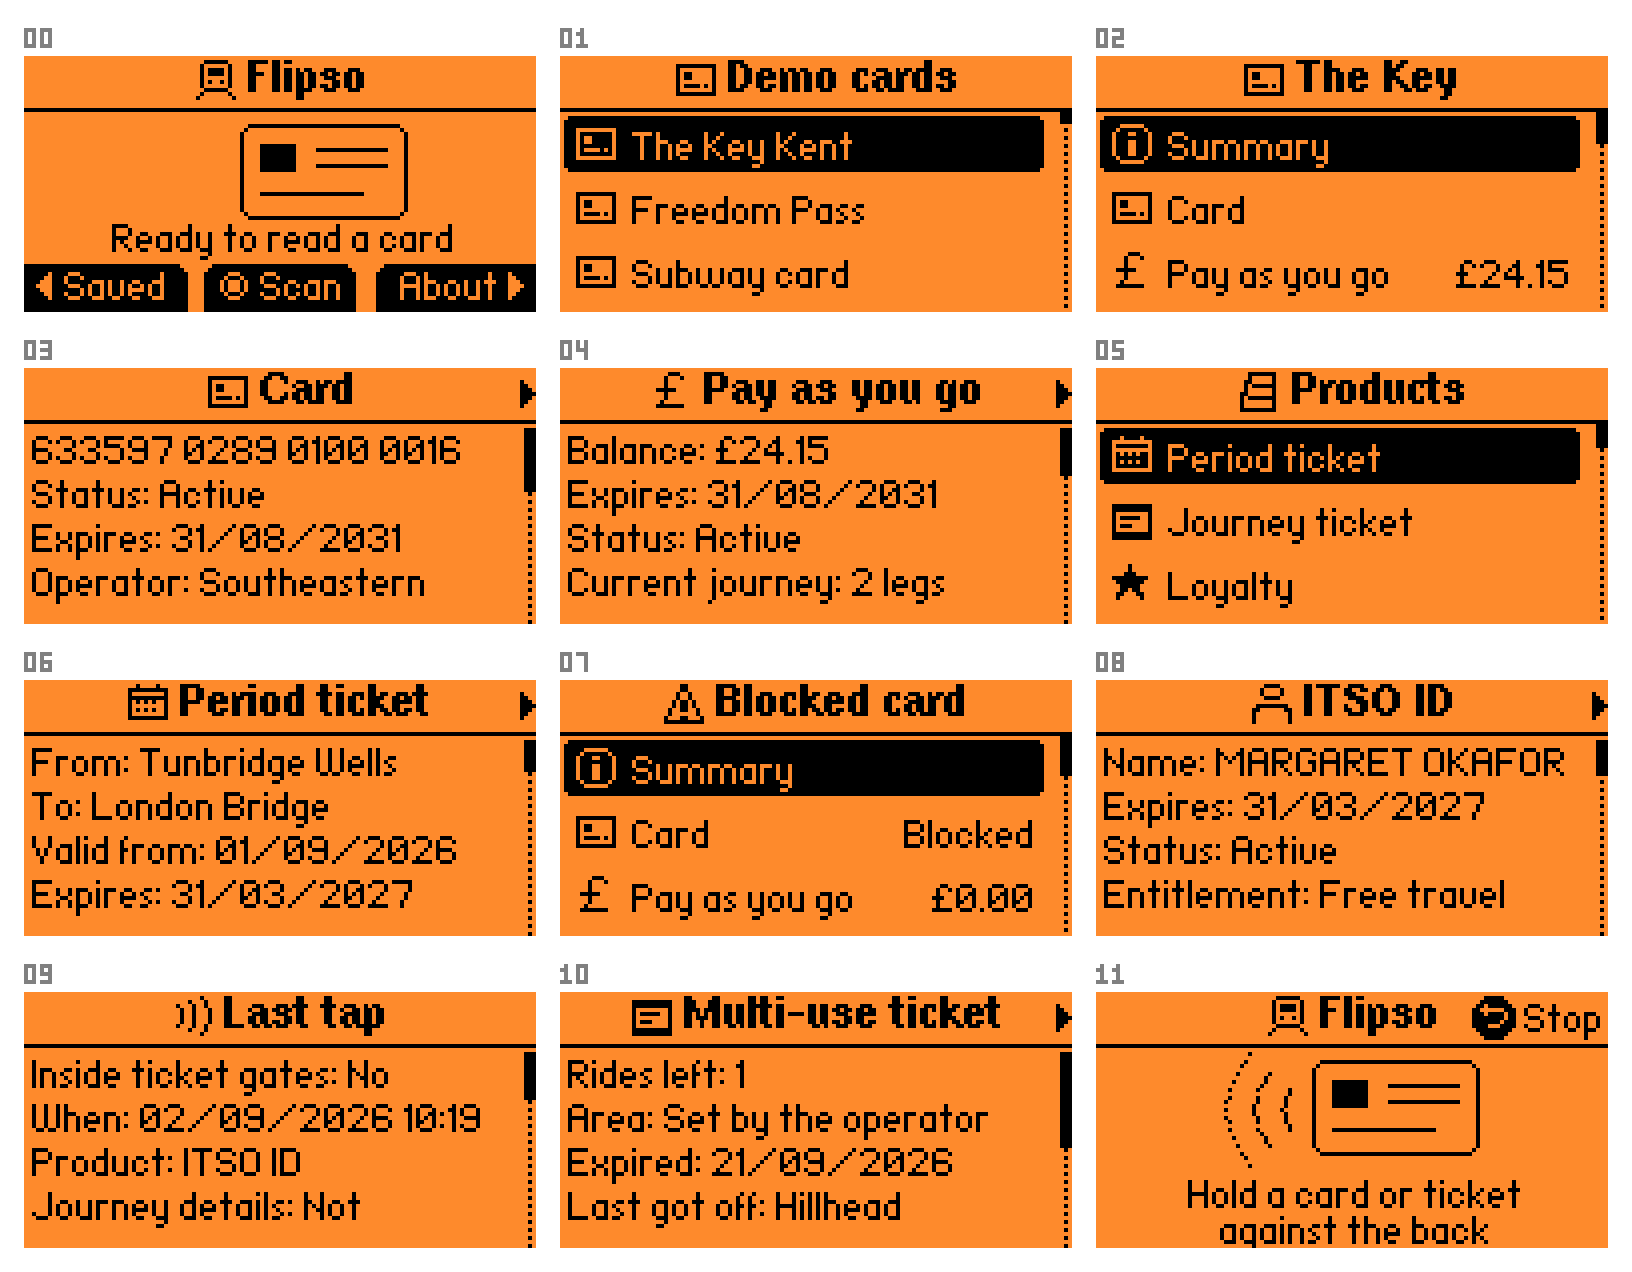
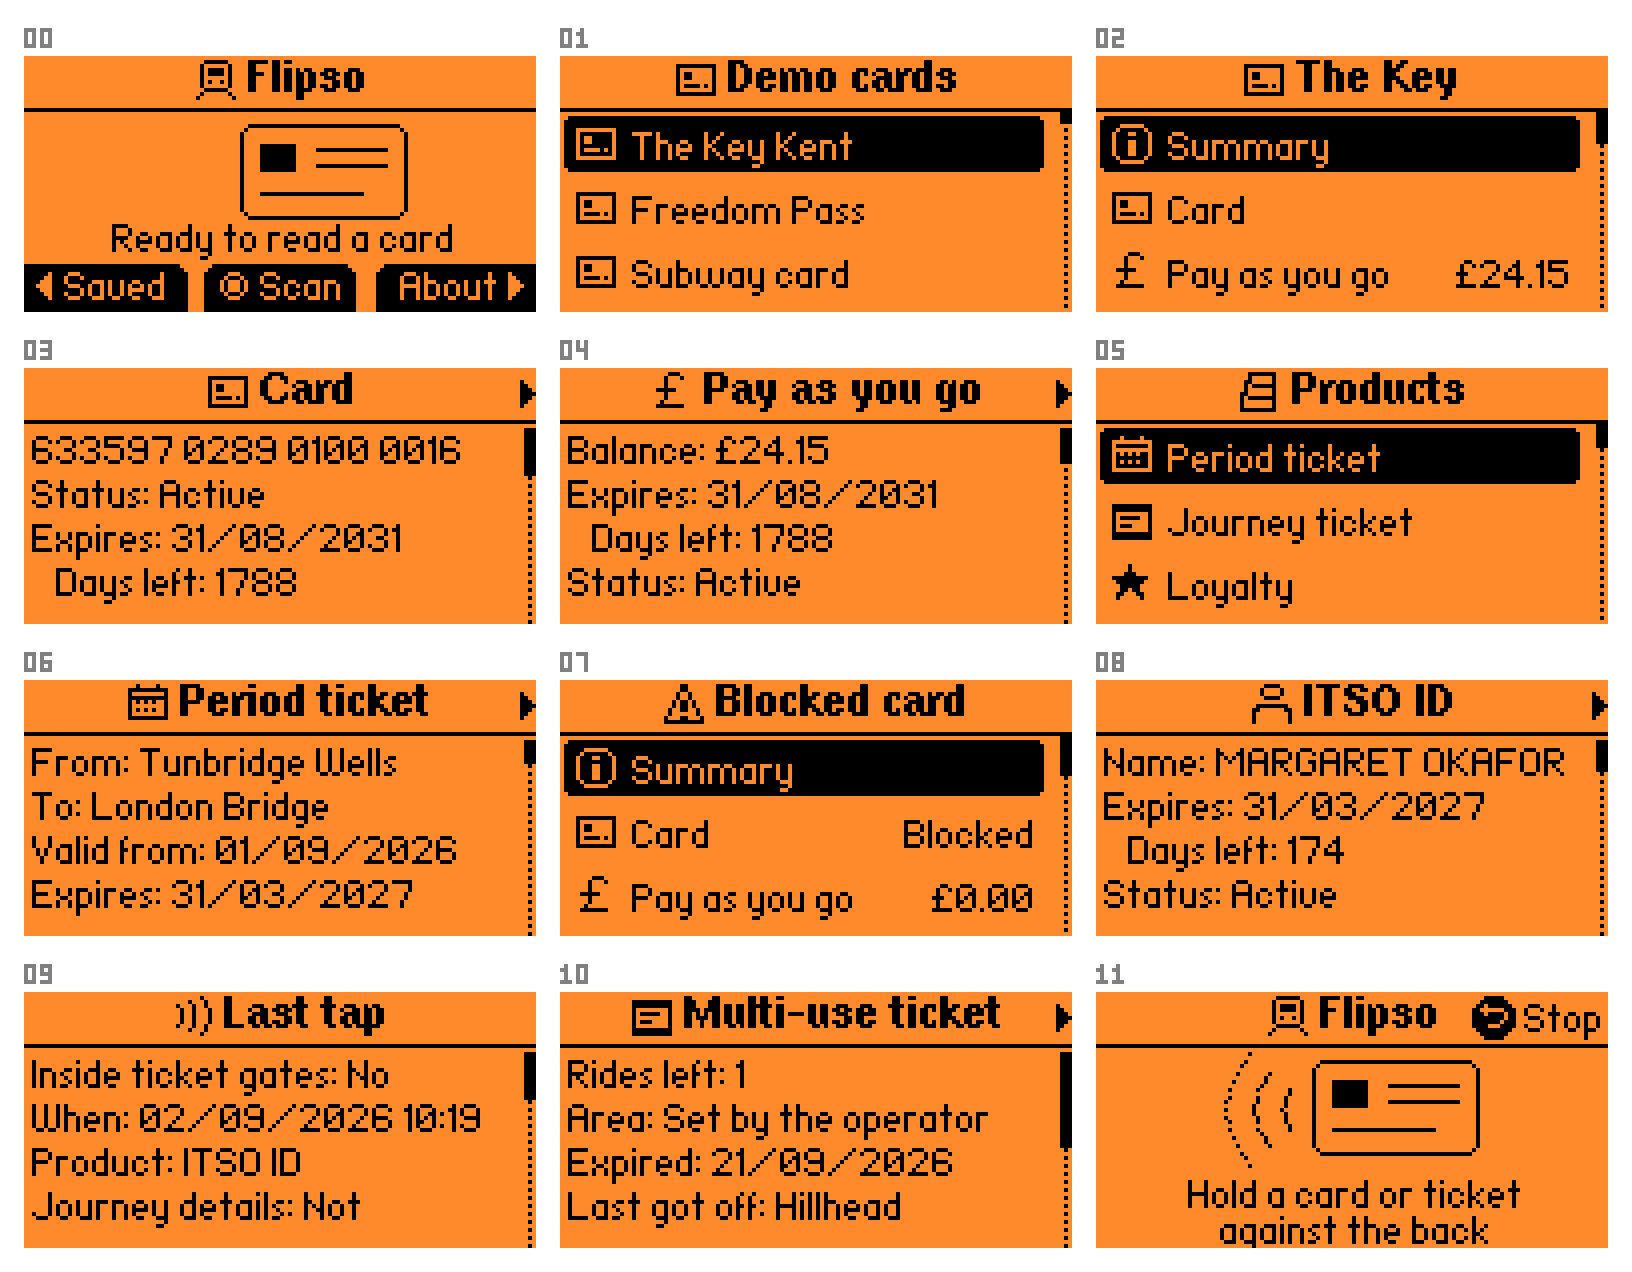
Show days left under expiries, and a period ticket's current pass on the Summary
A product's expiry, a period ticket's current pass and the card's own expiry
now carry an indented "Days left: N" ("Today" on the last day, nothing once
expired or for no expiry), counted in whole calendar days by
itso_date_days_left(). The Summary sums up a period ticket by the pass in
use, falling back to the product's expiry once that pass has ended.

screens.py judged "today" from the real instant of local midnight, which in
summer is the day before on the device's wall-clock timestamps; it now uses
the wall-clock midnight the Flipper would. README screenshots retaken.

diff --git a/tools/test/screen_text/test_days_left.c b/tools/test/screen_text/test_days_left.c
@@ -1,0 +1,172 @@
+/**
+ * @file test_days_left.c
+ * @brief How long is left on an expiry, and the date a period ticket's Summary goes by.
+ */
+#include "test_format.h"
+
+#include <time.h>
+
+/** "Label: dd/mm/yyyy\n" for @p date, as the screens write it. */
+static const char* dated(const char* label, ItsoDate date) {
+    static char line[64];
+    const time_t when = (time_t)itso_date_to_unix(date);
+    struct tm tm;
+    gmtime_r(&when, &tm);
+    snprintf(
+        line,
+        sizeof(line),
+        "%s: %02d/%02d/%04d\n",
+        label,
+        tm.tm_mday,
+        tm.tm_mon + 1,
+        tm.tm_year + 1900);
+    return line;
+}
+
+/** True when the screen has @p first with @p second on the line straight after it. */
+static bool followed_by(const FuriString* text, const char* first, const char* second) {
+    char want[128];
+    snprintf(want, sizeof(want), "%s%s", first, second);
+    return shows(text, want);
+}
+
+void days_left_screens(const FlipsoFormat* f, const ItsoCard* card, FuriString* text) {
+    const ItsoProduct* period = NULL;
+    for(uint8_t i = 0; i < card->product_count && !period; i++) {
+        if(card->products[i].typ == ItsoTypPeriodTicket) period = &card->products[i];
+    }
+    check("the synthetic card has a period ticket", period != NULL);
+    if(!period) return;
+
+    /* The day f->now falls on, whatever its hour. */
+    const ItsoDate today = (ItsoDate)((f->now - (itso_date_to_unix(1) - 86400)) / 86400);
+
+    check("days left counts to the day", itso_date_days_left(today + 185, f->now) == 185);
+    check("the last day has none left after it", itso_date_days_left(today, f->now) == 0);
+    check("yesterday is behind us", itso_date_days_left(today - 1, f->now) == -1);
+    /* Calendar days, not 24-hour spans: a minute before midnight, tomorrow is
+     * still one day away, and so it is a minute after. */
+    check(
+        "late in the day, tomorrow is a day away",
+        itso_date_days_left(today + 1, f->now + 86340) == 1);
+    check(
+        "and just past midnight, today is today",
+        itso_date_days_left(today + 1, f->now + 86460) == 0);
+    for(int32_t d = -2; d <= 2; d++) {
+        const ItsoDate date = (ItsoDate)(today + d);
+        check(
+            "it is below zero exactly when the date has expired",
+            (itso_date_days_left(date, f->now) < 0) == itso_date_expired(date, f->now));
+    }
+
+    ItsoProduct ticket = *period;
+    ticket.status = ItsoProductStatusActive;
+    ticket.count_kind = ItsoCountPasses;
+    ticket.count = 5;
+    ticket.expiry = today + 185;
+    ticket.terms.ticket.has_current_expiry = true;
+    ticket.terms.ticket.current_expiry = today + 12;
+    ticket.terms.ticket.has_stored_expiry = true;
+    ticket.terms.ticket.stored_expiry = today + 120;
+
+    furi_string_reset(text);
+    flipso_format_product(text, f, card, &ticket);
+    printf("\n%s\n", furi_string_get_cstr(text));
+    check(
+        "the expiry says how long is left",
+        followed_by(text, dated("Expires", ticket.expiry), "  Days left: 185\n"));
+    check(
+        "and so does the pass in use",
+        followed_by(
+            text,
+            dated("Current pass until", ticket.terms.ticket.current_expiry),
+            "  Days left: 12\n"));
+    check(
+        "but not the unused passes",
+        !followed_by(
+            text, dated("Unused passes until", ticket.terms.ticket.stored_expiry), "  Days"));
+
+    ticket.terms.ticket.current_expiry = today + 1;
+    ticket.expiry = today;
+    furi_string_reset(text);
+    flipso_format_product(text, f, card, &ticket);
+    check(
+        "a date tomorrow is a day away",
+        followed_by(
+            text,
+            dated("Current pass until", ticket.terms.ticket.current_expiry),
+            "  Days left: 1\n"));
+    check(
+        "and the last day says so",
+        followed_by(text, dated("Expires", ticket.expiry), "  Days left: Today\n"));
+
+    ticket.expiry = today - 1;
+    ticket.terms.ticket.current_expiry = today - 3;
+    furi_string_reset(text);
+    flipso_format_product(text, f, card, &ticket);
+    check("an expired date has its label", shows(text, dated("Expired", ticket.expiry)));
+    check("and nothing counted down", !shows(text, "Days left"));
+
+    ticket.expiry = 0;
+    ticket.terms.ticket.has_current_expiry = false;
+    furi_string_reset(text);
+    flipso_format_product(text, f, card, &ticket);
+    check(
+        "no expiry has no days left",
+        shows(text, "Expires: No expiry\n") && !shows(text, "Days left"));
+
+    /* The card's own expiry, on the card screen. */
+    static ItsoCard one;
+    one = *card;
+    one.expiry = today + 1000;
+    furi_string_reset(text);
+    flipso_format_card(text, f, &one, NULL, false, 0);
+    check(
+        "the card's expiry says how long is left",
+        followed_by(text, dated("Expires", one.expiry), "  Days left: 1000\n"));
+    one.expiry = 0x3FFF;
+    furi_string_reset(text);
+    flipso_format_card(text, f, &one, NULL, false, 0);
+    check("a card that never expires counts nothing down", !shows(text, "Days left"));
+
+    /* The Summary goes by the pass in use, and by the product once it ends. */
+    one = *card;
+    one.expiry = today + 1000;
+    one.products = &ticket;
+    one.product_count = 1;
+    ticket.on_card = true;
+    ticket.expiry = today + 185;
+    ticket.terms.ticket.has_current_expiry = true;
+    ticket.terms.ticket.current_expiry = today + 12;
+    furi_string_reset(text);
+    flipso_format_summary(text, f, &one);
+    printf("\n%s\n", furi_string_get_cstr(text));
+    char want[64];
+    snprintf(
+        want,
+        sizeof(want),
+        "Period ticket: Until %s",
+        dated("", ticket.terms.ticket.current_expiry) + 2);
+    check("the Summary gives the pass in use", shows(text, want));
+    check("with the passes behind it", shows(text, "  Passes left: 5\n"));
+    check("and does not count the days itself", !shows(text, "Days left"));
+
+    ticket.terms.ticket.current_expiry = today - 1;
+    furi_string_reset(text);
+    flipso_format_summary(text, f, &one);
+    snprintf(want, sizeof(want), "Period ticket: Until %s", dated("", ticket.expiry) + 2);
+    check("once that pass has ended, the product's expiry", shows(text, want));
+
+    ticket.terms.ticket.has_current_expiry = false;
+    furi_string_reset(text);
+    flipso_format_summary(text, f, &one);
+    check("and the same with no pass in use", shows(text, want));
+
+    ticket.terms.ticket.has_current_expiry = true;
+    ticket.terms.ticket.current_expiry = today + 12;
+    ticket.expiry = today - 1;
+    furi_string_reset(text);
+    flipso_format_summary(text, f, &one);
+    snprintf(want, sizeof(want), "Period ticket: Expired %s", dated("", ticket.expiry) + 2);
+    check("an expired product is expired, whatever its pass says", shows(text, want));
+}

diff --git a/format/flipso_format_summary.c b/format/flipso_format_summary.c
@@ -17,7 +17,7 @@ static bool flipso_summary_states(const ItsoProduct* product, ItsoUnixTime now) 
     return !itso_date_open(product->expiry) && itso_date_expired(product->expiry, now);
 }
 
-/** One product as a summary line: "Period ticket: Until 31/03/2027". */
+/** One product as a summary line: "Period ticket: Until 20/10/2026". */
 static void flipso_summary_product(
     FuriString* out,
     const ItsoCard* card,
@@ -47,15 +47,28 @@ static void flipso_summary_product(
         furi_string_cat_printf(out, "%s: %s\n", title, what);
     } else {
         furi_string_cat_printf(out, "%s: ", title);
+        /* A period ticket's own expiry is when its unused passes lapse; day
+         * to day it is good until the pass in use ends. Once that has ended
+         * the next pass starts on the next tap, and the product's expiry is
+         * all there is to go by. */
+        const bool pass = ticket->has_current_expiry && !itso_date_open(ticket->current_expiry) &&
+                          !itso_date_expired(ticket->current_expiry, now);
+        const bool lapsed = !itso_date_open(product->expiry) &&
+                            itso_date_expired(product->expiry, now);
         /* A date it is good until reads as a ticket still good, and an
          * expired one is the more telling of the two. */
-        if(flipso_product_used_up(product, now) &&
-           (itso_date_open(product->expiry) || !itso_date_expired(product->expiry, now))) {
+        if(flipso_product_used_up(product, now) && !lapsed) {
             furi_string_cat(out, "Used up");
+        } else if(lapsed) {
+            furi_string_cat(out, "Expired ");
+            flipso_cat_date(out, product->expiry);
+        } else if(pass) {
+            furi_string_cat(out, "Until ");
+            flipso_cat_date(out, ticket->current_expiry);
         } else if(itso_date_open(product->expiry)) {
             furi_string_cat(out, "No expiry");
         } else {
-            furi_string_cat(out, itso_date_expired(product->expiry, now) ? "Expired " : "Until ");
+            furi_string_cat(out, "Until ");
             flipso_cat_date(out, product->expiry);
         }
         furi_string_push_back(out, '\n');

diff --git a/tools/test/screen_text/test_demo_screens.c b/tools/test/screen_text/test_demo_screens.c
@@ -216,7 +216,9 @@ void demo_one(const FlipsoFormat* f, const ItsoCard* card) {
     check(
         "the ID's first page is who and what the holder is",
         page_starts(
-            text, "ITSO ID", "Name: JAMIE OKONKWO-LEE\nExpires: 31/08/2031\nStatus: Active\n") &&
+            text,
+            "ITSO ID",
+            "Name: JAMIE OKONKWO-LEE\nExpires: 31/08/2031\n  Days left: 2171\nStatus: Active\n") &&
             on_page(text, "ITSO ID", "Operator: SEFT Central Products\n"));
     check("the holder's page", page_starts(text, "Holder", "Born: 14/05/1978\nGender: Male\n"));
     furi_string_reset(text);
@@ -227,7 +229,7 @@ void demo_one(const FlipsoFormat* f, const ItsoCard* card) {
         page_starts(
             text,
             "Card",
-            "633597 0289 0100 0016\nStatus: Active\nExpires: 31/08/2031\n"
+            "633597 0289 0100 0016\nStatus: Active\nExpires: 31/08/2031\n  Days left: 2171\n"
             "Operator: Southeastern\n"));
     furi_string_reset(text);
     flipso_format_summary(text, f, card);
@@ -242,8 +244,8 @@ void demo_one(const FlipsoFormat* f, const ItsoCard* card) {
             "24.15\nITSO ID: Commuter\n") &&
             on_page(text, "Summary", "Last tap: London Bridge\n"));
     check(
-        "the tickets that can be used today are a page",
-        page_starts(text, "Tickets", "Period ticket: Until 31/03/2027\n"));
+        "the tickets that can be used today are a page, a season by the pass in use",
+        page_starts(text, "Tickets", "Period ticket: Until 20/10/2026\n  Passes left: 5\n"));
     check(
         "and the ones that cannot, another",
         on_page(text, "Not valid", "Loyalty: Blocked\n") &&

diff --git a/format/product/flipso_product_details.c b/format/product/flipso_product_details.c
@@ -183,14 +183,13 @@ void flipso_cat_product_details(
         flipso_cat_datetime_line(start, "", "Valid from", ticket->valid_from_dts);
     }
     /* A reserved journey's expiry is the end of its return portion, which the
-     * first page has already said. */
-    flipso_cat_expiry(
-        kind == FlipsoKindReserved ? details : main,
-        "",
-        "Expires",
-        "Expired",
-        product->expiry,
-        now);
+     * first page has already said, so it is a detail and not counted down. */
+    if(kind == FlipsoKindReserved) {
+        flipso_cat_expiry(details, "", "Expires", "Expired", product->expiry, now);
+    } else {
+        flipso_cat_expiry(main, "", "Expires", "Expired", product->expiry, now);
+        flipso_cat_days_left(main, "  ", product->expiry, now);
+    }
     if(purse->has_end_date && !flipso_same_date(purse->end_date, product->expiry)) {
         flipso_cat_expiry(main, "", "Valid to", "Ended", purse->end_date, now);
     }
@@ -208,6 +207,7 @@ void flipso_cat_product_details(
     if(ticket->has_current_expiry) {
         flipso_cat_expiry(
             main, "", "Current pass until", "Current pass ended", ticket->current_expiry, now);
+        flipso_cat_days_left(main, "  ", ticket->current_expiry, now);
     }
     if(ticket->has_stored_expiry && !flipso_same_date(ticket->stored_expiry, product->expiry)) {
         const bool rides = product->typ == ItsoTypJourneyTicket;

diff --git a/format/flipso_format_lines.c b/format/flipso_format_lines.c
@@ -140,6 +140,22 @@ void flipso_cat_expiry(
     flipso_cat_date_line(out, indent, itso_date_expired(date, now) ? past_label : label, date);
 }
 
+/**
+ * How long is left before an expiry, as a detail under its date: "Days left:
+ * 185", or "Today" on the last day. Nothing for a date that has passed, whose
+ * label already says so, or one that never comes.
+ */
+void flipso_cat_days_left(FuriString* out, const char* indent, ItsoDate date, ItsoUnixTime now) {
+    if(itso_date_open(date)) return;
+    const int32_t days = itso_date_days_left(date, now);
+    if(days < 0) return;
+    if(days == 0) {
+        furi_string_cat_printf(out, "%sDays left: Today\n", indent);
+    } else {
+        furi_string_cat_printf(out, "%sDays left: %ld\n", indent, (long)days);
+    }
+}
+
 /** "VAT: 20.00%", from a rate in 0.01% steps. Nothing for a rate of zero. */
 void flipso_cat_vat(FuriString* out, const char* indent, uint16_t vat) {
     if(vat) furi_string_cat_printf(out, "%sVAT: %u.%02u%%\n", indent, vat / 100, vat % 100);

diff --git a/tools/test/screens.py b/tools/test/screens.py
@@ -20,6 +20,7 @@ be checked as it looked on the day it was valid.
 """
 
 import argparse
+import calendar
 import datetime
 import os
 import subprocess
@@ -60,8 +61,13 @@ def build() -> str:
 
 
 def midnight(day: datetime.date) -> int:
-    """Local midnight, as the device's clock would have it."""
-    return int(datetime.datetime.combine(day, datetime.time()).timestamp())
+    """Midnight starting @p day, as the device's clock would have it.
+
+    The Flipper keeps wall time and turns it into a timestamp as though it were
+    UTC (datetime_datetime_to_timestamp()), as ITSO dates are; the real instant
+    of local midnight is an hour earlier in summer, which is the day before.
+    """
+    return calendar.timegm(day.timetuple())
 
 
 def render(binary: str, card: str, now: int, capture: bool = False):

diff --git a/tools/test/screen_text/test_format.h b/tools/test/screen_text/test_format.h
@@ -16,7 +16,7 @@
 #include <string.h>
 
 /* A fixed "now", so what has expired does not depend on the day the test
- * runs: 2026-09-20. */
+ * runs: 2025-09-20. */
 #define FLIPSO_TEST_NOW 1758326400u
 
 /* 2060-01-01: past the expiry of every card and product the tests build. */
@@ -82,6 +82,10 @@ void value_history_screens(
     const FlipsoFormat* f,
     const ItsoCard* card,
     FuriString* text); /* test_value_history.c */
+void days_left_screens(
+    const FlipsoFormat* f,
+    const ItsoCard* card,
+    FuriString* text); /* test_days_left.c */
 void about_screens(FuriString* text); /* test_about_media.c */
 void media_screens(FuriString* text);
 void demo_cards(const char* directory, FlipsoFormat f); /* test_demo_cards.c */

diff --git a/itso/itso_util.h b/itso/itso_util.h
@@ -52,6 +52,13 @@ ItsoUnixTime itso_dts_to_unix(ItsoDts dts);
 bool itso_date_expired(ItsoDate date, ItsoUnixTime now);
 
 /**
+ * Whole calendar days from @p now to the DATE: 0 on the day itself, 1 the day
+ * before, negative once it has passed - so it is below zero exactly when
+ * itso_date_expired() is true.
+ */
+int32_t itso_date_days_left(ItsoDate date, ItsoUnixTime now);
+
+/**
  * True for an expiry DATE that means "does not expire": zero, the EN1545 maximum
  * date schemes use for it, and 0x3FFF, the last date the 14 bits can hold, which
  * is what TS 1000-10 table 42 gives a compact shell ("does not expire for the

diff --git a/itso/itso_util.c b/itso/itso_util.c
@@ -89,6 +89,12 @@ bool itso_date_expired(ItsoDate date, ItsoUnixTime now) {
     return now >= itso_date_to_unix(date) + 86400UL;
 }
 
+int32_t itso_date_days_left(ItsoDate date, ItsoUnixTime now) {
+    /* Day numbers, not seconds: a DATE starts at its midnight and the clock is
+     * wall time, so a ticket ending tomorrow is a day away whatever the hour. */
+    return (int32_t)(itso_date_to_unix(date) / 86400UL) - (int32_t)(now / 86400UL);
+}
+
 bool itso_date_open(ItsoDate date) {
     return date == 0 || date == 0x3FFF;
 }

diff --git a/format/flipso_format_i.h b/format/flipso_format_i.h
@@ -73,6 +73,9 @@ void flipso_cat_expiry(
     ItsoDate date,
     ItsoUnixTime now);
 
+/** "Days left: 185", or "Today", under an expiry; nothing once it has passed or for no expiry. */
+void flipso_cat_days_left(FuriString* out, const char* indent, ItsoDate date, ItsoUnixTime now);
+
 /** "VAT: 20.00%", from a rate in 0.01% steps. Nothing for a rate of zero. */
 void flipso_cat_vat(FuriString* out, const char* indent, uint16_t vat);
 

diff --git a/format/flipso_format_card.c b/format/flipso_format_card.c
@@ -194,6 +194,7 @@ void flipso_format_card(
     }
     if(!card->shell_compact) {
         flipso_cat_expiry(out, "", "Expires", "Expired", card->expiry, f->now);
+        flipso_cat_days_left(out, "  ", card->expiry, f->now);
     }
 
     /* The shell owner is the operator that issued the card and so the one that

diff --git a/tools/test/screen_text/test_format.c b/tools/test/screen_text/test_format.c
@@ -34,6 +34,7 @@ int main(int argc, char** argv) {
     paper_ticket_screens(&f, text);
     product_lines(&f, &card, text);
     value_history_screens(&f, &card, text);
+    days_left_screens(&f, &card, text);
     about_screens(text);
     media_screens(text);
     furi_string_free(text);
